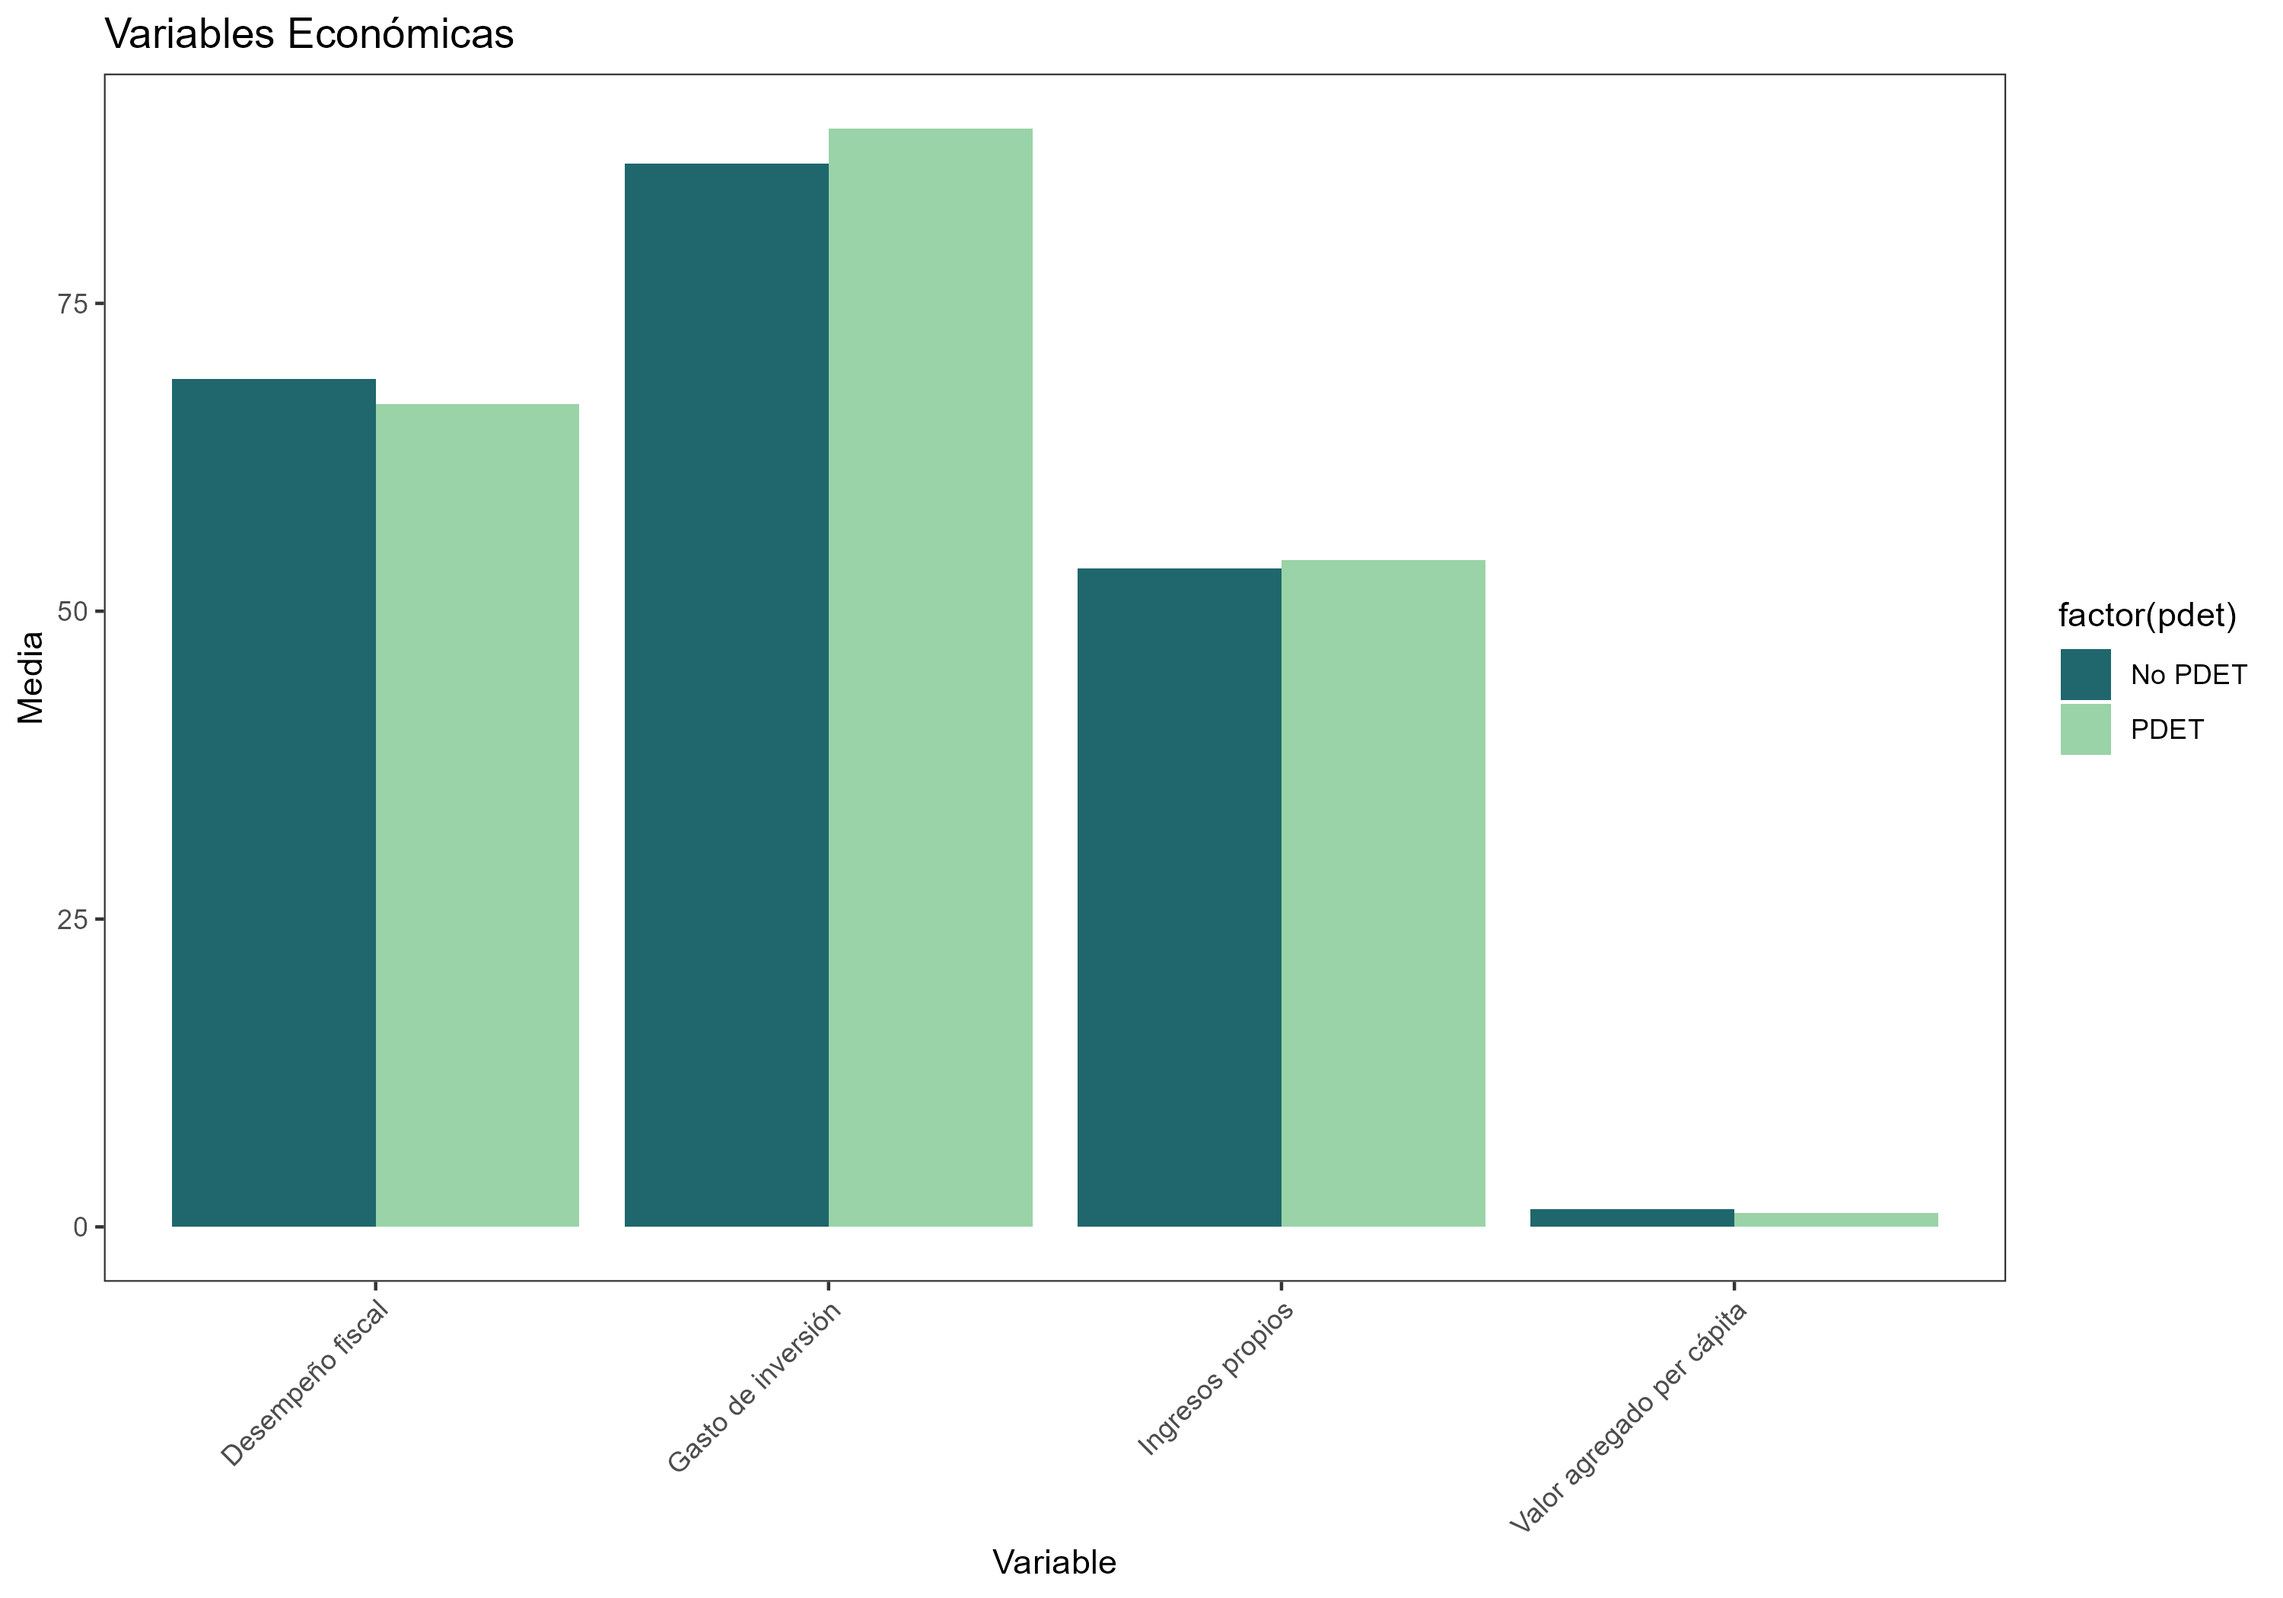
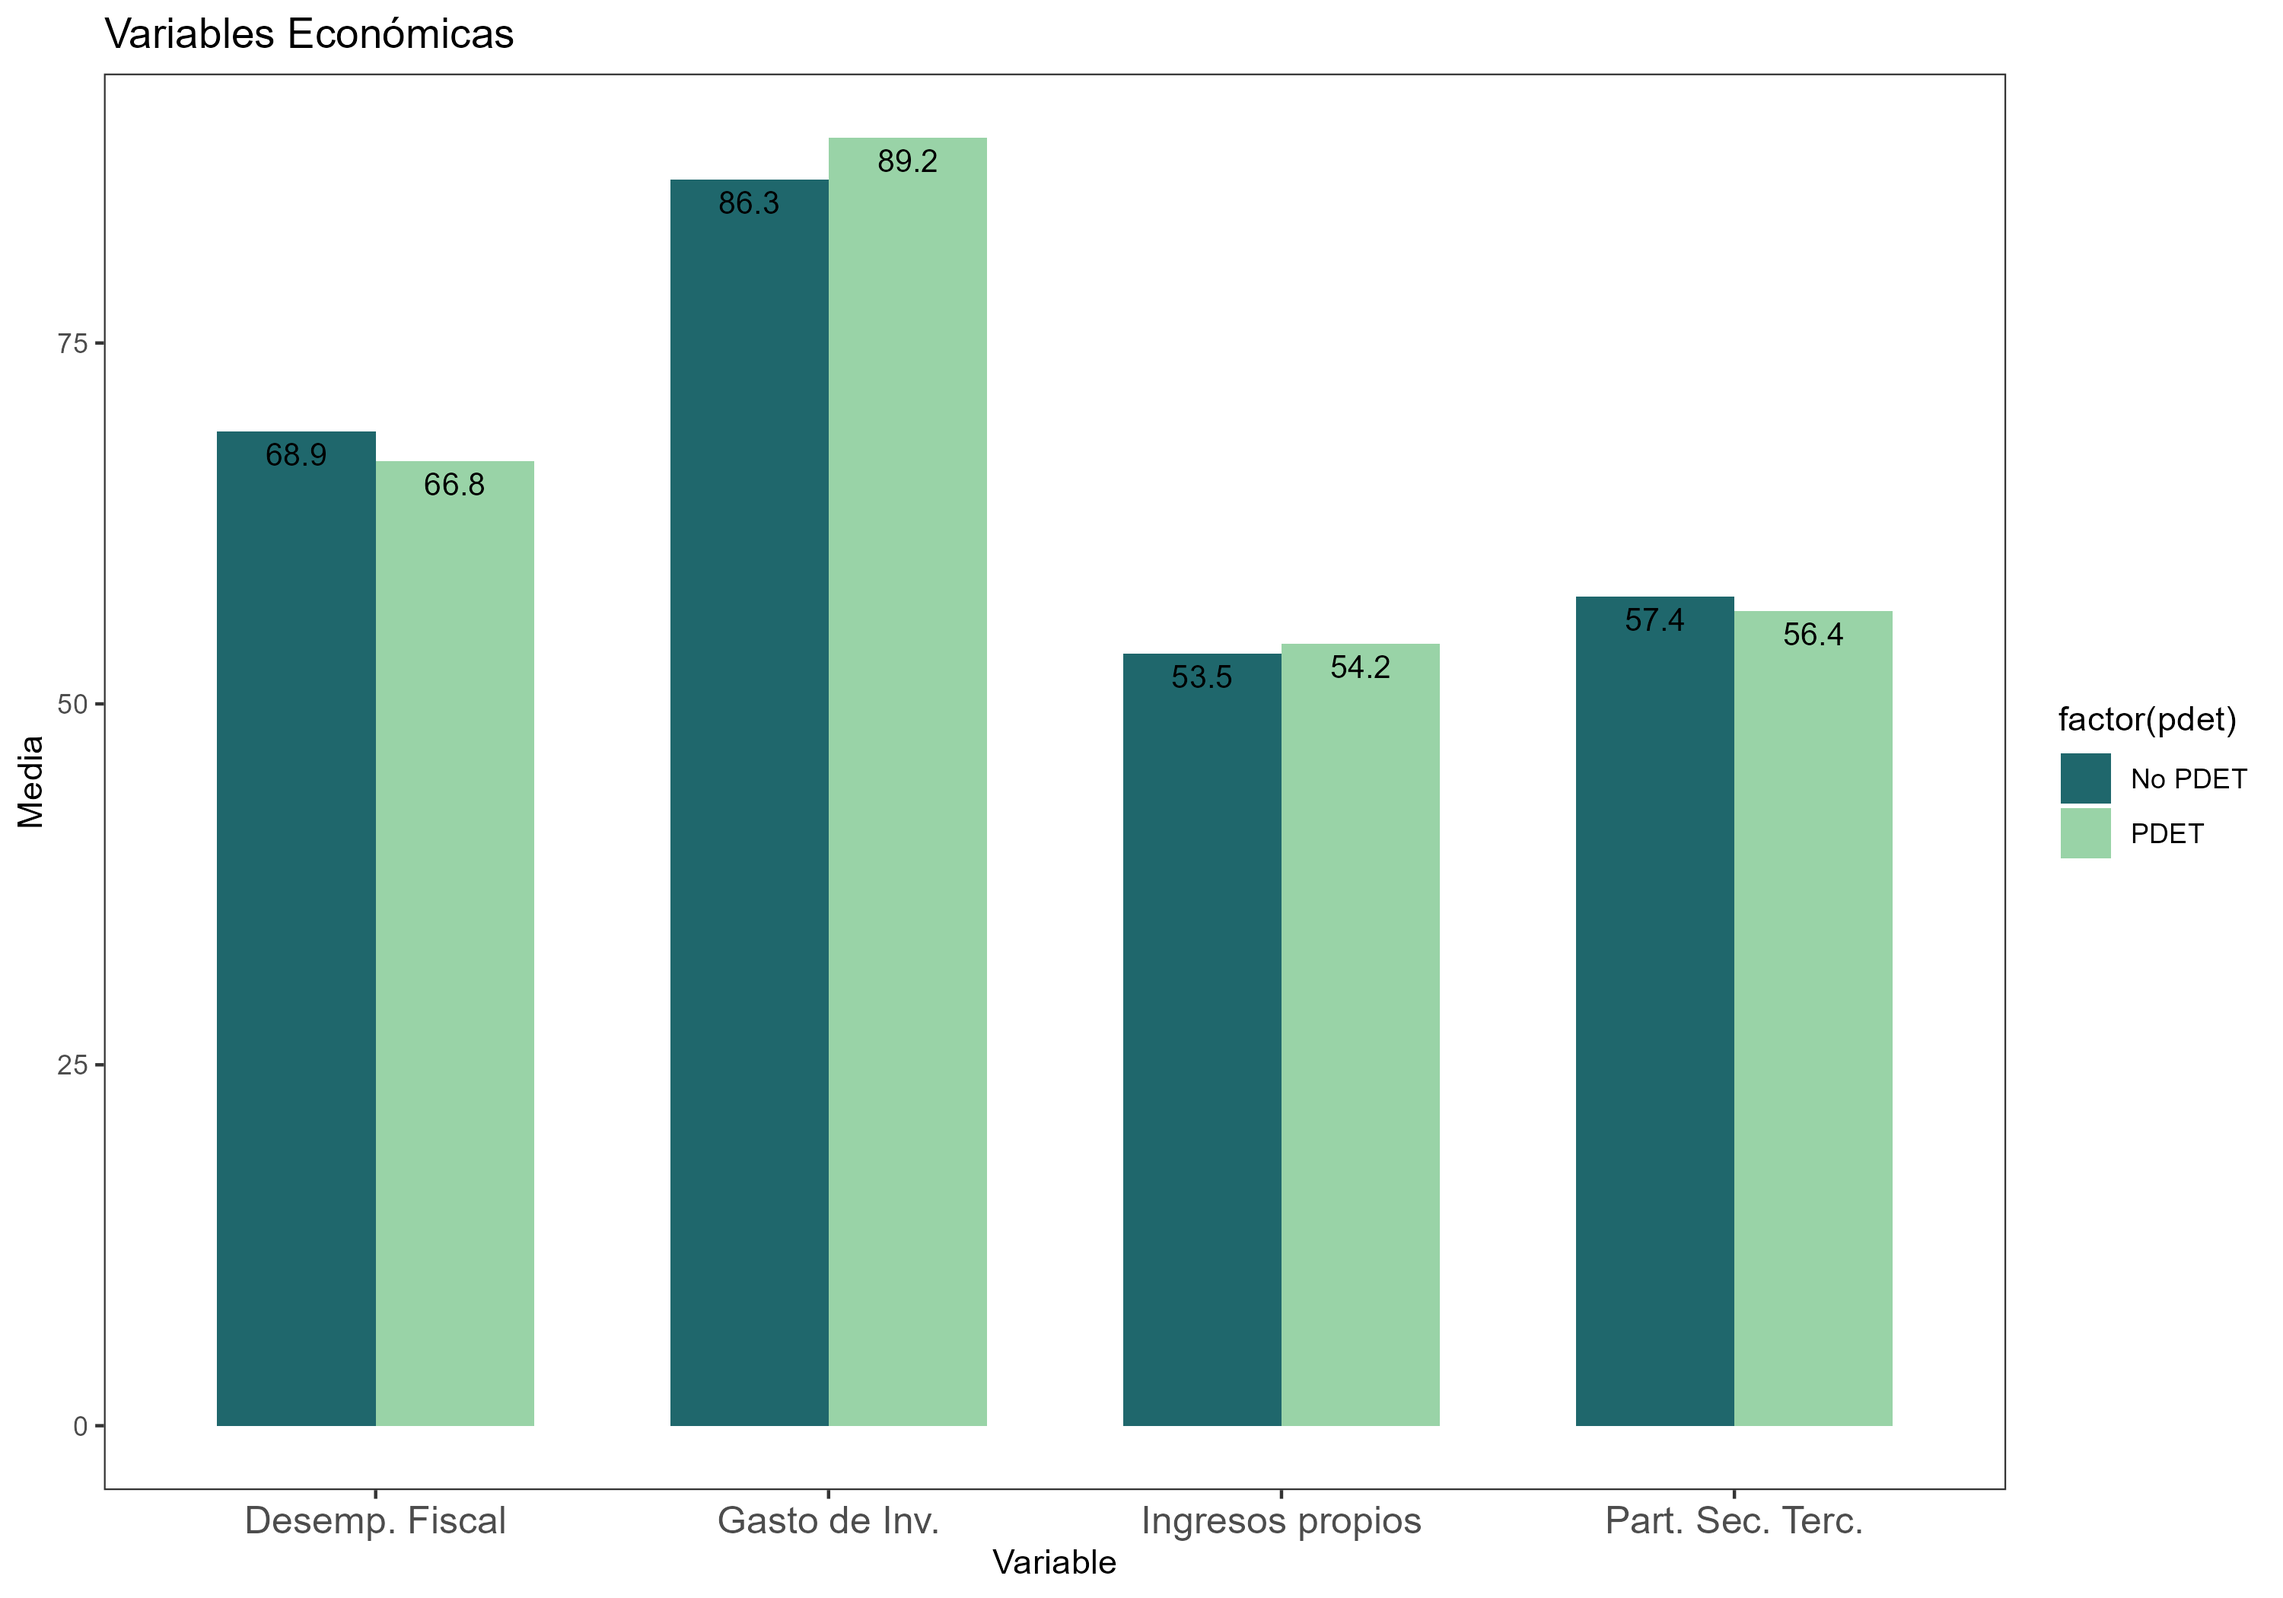
graficas y tablas para doc

diff --git a/Graficos-tablas/tabla_final_estadisticas_graficos.html b/Graficos-tablas/tabla_final_estadisticas_graficos.html
@@ -280,30 +280,35 @@ border: 0;
 
 </head>
 <body>
-<table class=" lightable-classic" style="font-family: Cambria; width: auto !important; margin-left: auto; margin-right: auto;">
+<table class=" lightable-classic" style="color: black; font-family: Cambria; width: auto !important; margin-left: auto; margin-right: auto;">
 <caption>Estadísticas descriptivas por municipio PDET y No PDET</caption>
  <thead>
+<tr>
+<th style="empty-cells: hide;border-bottom:hidden;" colspan="1"></th>
+<th style="border-bottom:hidden;padding-bottom:0; padding-left:3px;padding-right:3px;text-align: center; " colspan="7"><div style="border-bottom: 1px solid #ddd; padding-bottom: 5px; ">No PDET</div></th>
+<th style="border-bottom:hidden;padding-bottom:0; padding-left:3px;padding-right:3px;text-align: center; " colspan="7"><div style="border-bottom: 1px solid #ddd; padding-bottom: 5px; ">PDET</div></th>
+</tr>
   <tr>
    <th style="text-align:left;"> Variable </th>
-   <th style="text-align:right;"> Min (No PDET) </th>
-   <th style="text-align:right;"> Q1 (No PDET) </th>
-   <th style="text-align:right;"> Promedio (No PDET) </th>
-   <th style="text-align:right;"> Mediana (No PDET) </th>
-   <th style="text-align:right;"> Q3 (No PDET) </th>
-   <th style="text-align:right;"> Max (No PDET) </th>
-   <th style="text-align:right;"> Desv. (No PDET) </th>
-   <th style="text-align:right;"> Min (PDET) </th>
-   <th style="text-align:right;"> Q1 (PDET) </th>
-   <th style="text-align:right;"> Promedio (PDET) </th>
-   <th style="text-align:right;"> Mediana (PDET) </th>
-   <th style="text-align:right;"> Q3 (PDET) </th>
-   <th style="text-align:right;"> Max (PDET) </th>
-   <th style="text-align:right;"> Desv. (PDET) </th>
+   <th style="text-align:right;"> Min </th>
+   <th style="text-align:right;"> Q1 </th>
+   <th style="text-align:right;"> Promedio </th>
+   <th style="text-align:right;"> Mediana </th>
+   <th style="text-align:right;"> Q3 </th>
+   <th style="text-align:right;"> Max </th>
+   <th style="text-align:right;"> Desv. </th>
+   <th style="text-align:right;"> Min </th>
+   <th style="text-align:right;"> Q1 </th>
+   <th style="text-align:right;"> Promedio </th>
+   <th style="text-align:right;"> Mediana </th>
+   <th style="text-align:right;"> Q3 </th>
+   <th style="text-align:right;"> Max </th>
+   <th style="text-align:right;"> Desv. </th>
   </tr>
  </thead>
 <tbody>
   <tr>
-   <td style="text-align:left;"> Tasa de homicidios </td>
+   <td style="text-align:left;"> Ingresos propios </td>
    <td style="text-align:right;"> 0.00 </td>
    <td style="text-align:right;"> 16.67 </td>
    <td style="text-align:right;"> 63.94 </td>
@@ -320,7 +325,7 @@ border: 0;
    <td style="text-align:right;"> 7.13 </td>
   </tr>
   <tr>
-   <td style="text-align:left;"> Tasa de extorsión </td>
+   <td style="text-align:left;"> Gasto de Inv. </td>
    <td style="text-align:right;"> 0.00 </td>
    <td style="text-align:right;"> 0.00 </td>
    <td style="text-align:right;"> 83.58 </td>
@@ -337,7 +342,7 @@ border: 0;
    <td style="text-align:right;"> 7.16 </td>
   </tr>
   <tr>
-   <td style="text-align:left;"> Tasa ataques a instituciones </td>
+   <td style="text-align:left;"> Desemp. Fiscal </td>
    <td style="text-align:right;"> 0.00 </td>
    <td style="text-align:right;"> 0.48 </td>
    <td style="text-align:right;"> 35.44 </td>
@@ -354,92 +359,41 @@ border: 0;
    <td style="text-align:right;"> 20.16 </td>
   </tr>
   <tr>
-   <td style="text-align:left;"> Ingresos propios </td>
-   <td style="text-align:right;"> 0.00 </td>
-   <td style="text-align:right;"> 0.00 </td>
-   <td style="text-align:right;"> 0.00 </td>
-   <td style="text-align:right;"> 0.00 </td>
-   <td style="text-align:right;"> 8432.67 </td>
-   <td style="text-align:right;"> 105.55 </td>
-   <td style="text-align:right;"> 0.00 </td>
-   <td style="text-align:right;"> 0.00 </td>
-   <td style="text-align:right;"> 0.00 </td>
-   <td style="text-align:right;"> 0.00 </td>
-   <td style="text-align:right;"> 4516383.00 </td>
-   <td style="text-align:right;"> 16880.00 </td>
-   <td style="text-align:right;"> 147890.24 </td>
-   <td style="text-align:right;"> 932.19 </td>
-  </tr>
-  <tr>
-   <td style="text-align:left;"> Gasto de inversión </td>
-   <td style="text-align:right;"> 0.00 </td>
-   <td style="text-align:right;"> 0.00 </td>
-   <td style="text-align:right;"> 0.00 </td>
-   <td style="text-align:right;"> 0.00 </td>
-   <td style="text-align:right;"> 32078.02 </td>
-   <td style="text-align:right;"> 12401.59 </td>
-   <td style="text-align:right;"> 0.00 </td>
-   <td style="text-align:right;"> 0.00 </td>
-   <td style="text-align:right;"> 0.00 </td>
-   <td style="text-align:right;"> 72.00 </td>
-   <td style="text-align:right;"> 9743079.00 </td>
-   <td style="text-align:right;"> 1259986.00 </td>
-   <td style="text-align:right;"> 359732.35 </td>
-   <td style="text-align:right;"> 84726.68 </td>
-  </tr>
-  <tr>
-   <td style="text-align:left;"> Desempeño fiscal </td>
-   <td style="text-align:right;"> 0.00 </td>
-   <td style="text-align:right;"> 0.00 </td>
-   <td style="text-align:right;"> 0.00 </td>
-   <td style="text-align:right;"> 0.00 </td>
-   <td style="text-align:right;"> 0.02 </td>
-   <td style="text-align:right;"> 0.28 </td>
-   <td style="text-align:right;"> 0.00 </td>
-   <td style="text-align:right;"> 0.00 </td>
-   <td style="text-align:right;"> 0.00 </td>
-   <td style="text-align:right;"> 0.00 </td>
-   <td style="text-align:right;"> 26.01 </td>
-   <td style="text-align:right;"> 64.52 </td>
-   <td style="text-align:right;"> 0.57 </td>
-   <td style="text-align:right;"> 2.41 </td>
-  </tr>
-  <tr>
-   <td style="text-align:left;"> Valor agregado per cápita </td>
-   <td style="text-align:right;"> 0.57 </td>
-   <td style="text-align:right;"> 1.29 </td>
-   <td style="text-align:right;"> 7.41 </td>
-   <td style="text-align:right;"> 7.97 </td>
-   <td style="text-align:right;"> 18.28 </td>
-   <td style="text-align:right;"> 18.90 </td>
-   <td style="text-align:right;"> 12.79 </td>
-   <td style="text-align:right;"> 14.46 </td>
-   <td style="text-align:right;"> 22.36 </td>
-   <td style="text-align:right;"> 26.03 </td>
-   <td style="text-align:right;"> 434.78 </td>
-   <td style="text-align:right;"> 107.19 </td>
-   <td style="text-align:right;"> 19.26 </td>
-   <td style="text-align:right;"> 15.10 </td>
-  </tr>
-  <tr>
    <td style="text-align:left;"> Tasa de urbanización </td>
-   <td style="text-align:right;"> 0.62 </td>
-   <td style="text-align:right;"> 2.09 </td>
-   <td style="text-align:right;"> 12.11 </td>
-   <td style="text-align:right;"> 19.52 </td>
-   <td style="text-align:right;"> 29.79 </td>
-   <td style="text-align:right;"> 48.57 </td>
-   <td style="text-align:right;"> 21.08 </td>
-   <td style="text-align:right;"> 35.66 </td>
-   <td style="text-align:right;"> 37.67 </td>
-   <td style="text-align:right;"> 63.01 </td>
-   <td style="text-align:right;"> 388.95 </td>
-   <td style="text-align:right;"> 407.95 </td>
-   <td style="text-align:right;"> 27.55 </td>
-   <td style="text-align:right;"> 43.39 </td>
+   <td style="text-align:right;"> 0.95 </td>
+   <td style="text-align:right;"> 2.47 </td>
+   <td style="text-align:right;"> 46.13 </td>
+   <td style="text-align:right;"> 45.91 </td>
+   <td style="text-align:right;"> 57.44 </td>
+   <td style="text-align:right;"> 56.44 </td>
+   <td style="text-align:right;"> 58.53 </td>
+   <td style="text-align:right;"> 59.22 </td>
+   <td style="text-align:right;"> 70.51 </td>
+   <td style="text-align:right;"> 70.01 </td>
+   <td style="text-align:right;"> 96.81 </td>
+   <td style="text-align:right;"> 92.39 </td>
+   <td style="text-align:right;"> 17.59 </td>
+   <td style="text-align:right;"> 18.35 </td>
   </tr>
   <tr>
    <td style="text-align:left;"> Tasa SISBEN </td>
+   <td style="text-align:right;"> 0.17 </td>
+   <td style="text-align:right;"> 0.17 </td>
+   <td style="text-align:right;"> 2.57 </td>
+   <td style="text-align:right;"> 1.03 </td>
+   <td style="text-align:right;"> 13.87 </td>
+   <td style="text-align:right;"> 5.50 </td>
+   <td style="text-align:right;"> 5.55 </td>
+   <td style="text-align:right;"> 2.43 </td>
+   <td style="text-align:right;"> 12.08 </td>
+   <td style="text-align:right;"> 5.02 </td>
+   <td style="text-align:right;"> 491.29 </td>
+   <td style="text-align:right;"> 115.81 </td>
+   <td style="text-align:right;"> 31.50 </td>
+   <td style="text-align:right;"> 11.20 </td>
+  </tr>
+  <tr>
+   <td style="text-align:left;"> Part. Sec. Terc. </td>
    <td style="text-align:right;"> 0.00 </td>
    <td style="text-align:right;"> 0.00 </td>
    <td style="text-align:right;"> 0.00 </td>
@@ -456,7 +410,7 @@ border: 0;
    <td style="text-align:right;"> 46.60 </td>
   </tr>
   <tr>
-   <td style="text-align:left;"> Llegadas pasajeros nacionales </td>
+   <td style="text-align:left;"> Tasa Empresas Tur. </td>
    <td style="text-align:right;"> 0.00 </td>
    <td style="text-align:right;"> 3.33 </td>
    <td style="text-align:right;"> 24.53 </td>
@@ -471,57 +425,6 @@ border: 0;
    <td style="text-align:right;"> 97.19 </td>
    <td style="text-align:right;"> 24.56 </td>
    <td style="text-align:right;"> 23.05 </td>
-  </tr>
-  <tr>
-   <td style="text-align:left;"> Llegadas internacionales </td>
-   <td style="text-align:right;"> 0.14 </td>
-   <td style="text-align:right;"> 0.17 </td>
-   <td style="text-align:right;"> 0.76 </td>
-   <td style="text-align:right;"> 0.57 </td>
-   <td style="text-align:right;"> 1.46 </td>
-   <td style="text-align:right;"> 1.14 </td>
-   <td style="text-align:right;"> 1.09 </td>
-   <td style="text-align:right;"> 0.79 </td>
-   <td style="text-align:right;"> 1.53 </td>
-   <td style="text-align:right;"> 1.09 </td>
-   <td style="text-align:right;"> 93.27 </td>
-   <td style="text-align:right;"> 23.08 </td>
-   <td style="text-align:right;"> 2.27 </td>
-   <td style="text-align:right;"> 1.55 </td>
-  </tr>
-  <tr>
-   <td style="text-align:left;"> Visitantes extranjeros no residentes </td>
-   <td style="text-align:right;"> 0.00 </td>
-   <td style="text-align:right;"> 0.00 </td>
-   <td style="text-align:right;"> 2.00 </td>
-   <td style="text-align:right;"> 2.00 </td>
-   <td style="text-align:right;"> 2953.02 </td>
-   <td style="text-align:right;"> 289.43 </td>
-   <td style="text-align:right;"> 10.00 </td>
-   <td style="text-align:right;"> 9.00 </td>
-   <td style="text-align:right;"> 55.00 </td>
-   <td style="text-align:right;"> 30.00 </td>
-   <td style="text-align:right;"> 1259394.00 </td>
-   <td style="text-align:right;"> 30949.00 </td>
-   <td style="text-align:right;"> 42917.42 </td>
-   <td style="text-align:right;"> 2224.16 </td>
-  </tr>
-  <tr>
-   <td style="text-align:left;"> Visitantes Parques naturales </td>
-   <td style="text-align:right;"> 0.00 </td>
-   <td style="text-align:right;"> 0.00 </td>
-   <td style="text-align:right;"> 0.00 </td>
-   <td style="text-align:right;"> 0.00 </td>
-   <td style="text-align:right;"> 1229.19 </td>
-   <td style="text-align:right;"> 3607.40 </td>
-   <td style="text-align:right;"> 0.00 </td>
-   <td style="text-align:right;"> 0.00 </td>
-   <td style="text-align:right;"> 0.00 </td>
-   <td style="text-align:right;"> 0.00 </td>
-   <td style="text-align:right;"> 1300519.00 </td>
-   <td style="text-align:right;"> 482434.00 </td>
-   <td style="text-align:right;"> 30653.41 </td>
-   <td style="text-align:right;"> 36990.67 </td>
   </tr>
 </tbody>
 </table>
